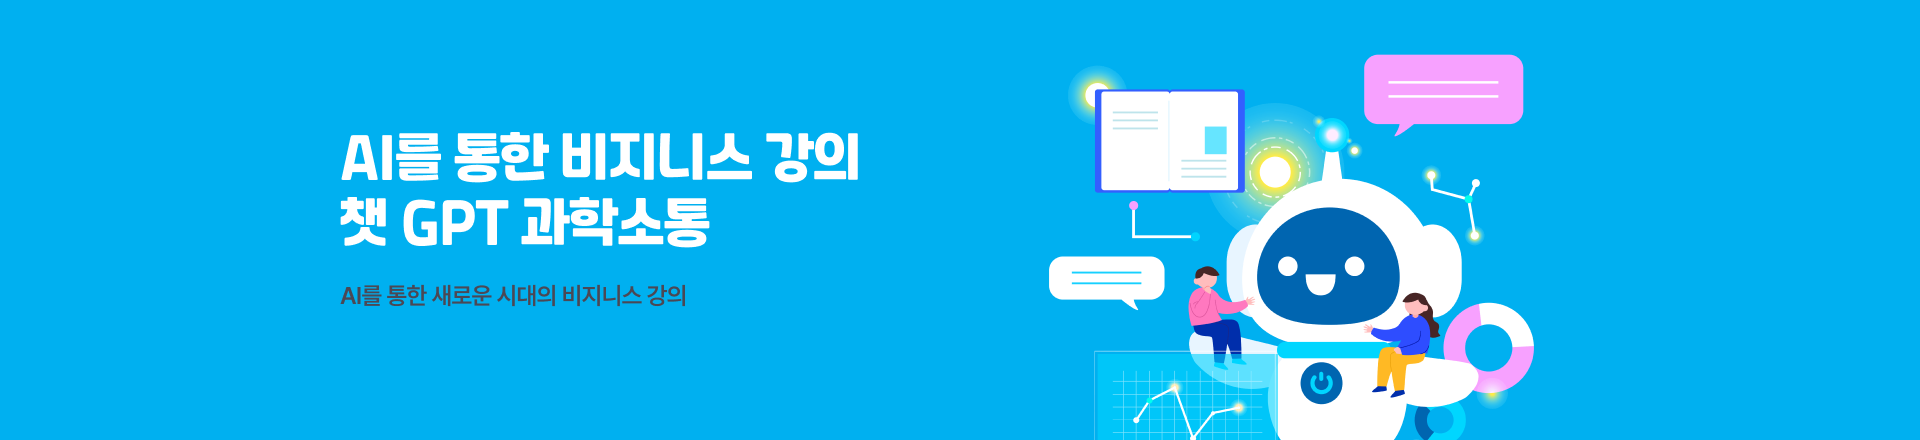
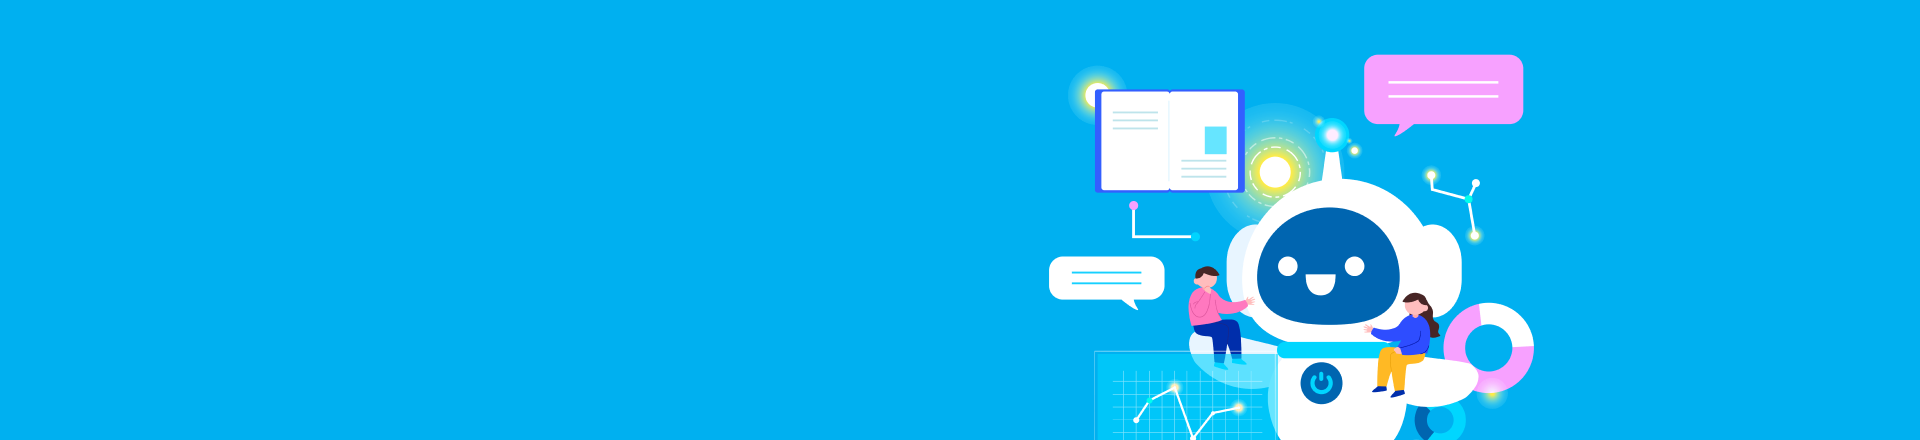
231005

Changed region(s): [[0.1562, 0.2955, 0.4688, 0.4136], [0.1562, 0.4432, 0.375, 0.5614], [0.1562, 0.65, 0.375, 0.7091]]

diff --git a/css/main.css b/css/main.css
@@ -59,6 +59,10 @@
   position: relative;
   width: 100%;
   height: calc(var(--vh, 1vh) * 46);
+  background-repeat: no-repeat;
+  background-size: cover;
+  background-position: center;
+  z-index: 5;
 }
 .top-banner .banner .item .txt-box {
   position: absolute;
@@ -67,7 +71,7 @@
   transform: translate(-50%, -50%);
   width: 100%;
   max-width: var(--area-1240-width);
-  display: none;
+  z-index: 10;
 }
 .top-banner .banner .item .txt-box p {
   font-family: "Recipekorea", sans-serif;
@@ -80,7 +84,7 @@
 .top-banner .banner .item .txt-box span.sub-txt {
   display: block;
   margin-top: 10px;
-  color: var(--blackColor);
+  color: #fff;
 }
 .top-banner .banner .item .txt-box span.sub-txt i {
   display: inline-block;
@@ -99,7 +103,7 @@
   height: 40px;
   line-height: 40px;
   text-align: center;
-  box-shadow: 0 4px 4px rgba(0, 0, 0, 0.25);
+  box-shadow: 0 4px 4px rgba(0, 0, 0, 0.5);
   border-radius: 50%;
 }
 .top-banner .banner .slick-arrow i {
@@ -109,12 +113,12 @@
   color: var(--blackColor);
 }
 .top-banner .banner .slick-prev {
-  right: 19.5vw;
+  right: 26%;
   left: auto;
 }
 .top-banner .banner .slick-next {
   left: auto;
-  right: 17vw;
+  right: calc(26% - 50px);
 }
 .top-banner .banner .slick-dots {
   position: absolute;
@@ -555,6 +559,12 @@
   .calendar_list {
     height: 48vh;
   }
+  .top-banner .banner .slick-prev {
+    right: 20%;
+  }
+  .top-banner .banner .slick-next {
+    right: calc(20% - 50px);
+  }
 }
 /* 태블릿, 모바일 가로 (해상도 768px ~ 830px)*/
 @media screen and (max-width: 885px) {
@@ -640,6 +650,22 @@
   .m-container > article {
     width: calc(100% - 8vw);
     padding: 0 4vw;
+  }
+  .top-banner .banner .item {
+    position: relative;
+    background-position: 70% 100%;
+  }
+
+  .top-banner .banner .item::after {
+    content: "";
+    position: absolute;
+    width: 100%;
+    height: 100%;
+    background: rgba(0, 0, 0, 0.25);
+    z-index: -1;
+  }
+  .top-banner .banner .item .txt-box p {
+    font-size: var(--fz-26);
   }
   .top-banner .banner .item .txt-box .btn-box {
     justify-content: center;

diff --git a/index.html b/index.html
@@ -301,17 +301,6 @@
             class="item"
             style="background-image: url(./images/main/banner_1.png)"
           >
-            <picture>
-              <source
-                srcset="images/main/banner_1_480.png"
-                media="(max-width:480px)"
-              />
-              <source
-                srcset="images/main/banner_1_885.png"
-                media="(max-width:885px)"
-              />
-              <img src="images/main/banner_1.png" alt="" />
-            </picture>
             <div class="txt-box">
               <p>
                 AI를 통한 비지니스 강의<br />
@@ -320,28 +309,16 @@
               <span class="sub-txt">AI를 통한 새로운 시대의 비지니스 강의</span>
             </div>
           </div>
-          <div class="item">
-            <picture>
-              <source
-                srcset="images/main/banner_1_480.png"
-                media="(max-width:480px)"
-              />
-              <source
-                srcset="images/main/banner_1_885.png"
-                media="(max-width:885px)"
-              />
-              <img src="images/main/banner_2.png" alt="" />
-            </picture>
+          <div
+            class="item"
+            style="background-image: url(./images/main/banner_2.png)"
+          >
             <div class="txt-box">
-              <p>9월 토요과학카페 (VR)</p>
-              <span class="sub-txt"
-                ><i class="fa-solid fa-clock"></i>매주 토요일 /
-                13:00~14:30</span
-              >
-              <span class="sub-txt"
-                ><i class="fa-solid fa-location-dot"></i>동구청 1층 사이언스
-                라운지</span
-              >
+              <p>
+                AI를 통한 비지니스 강의<br />
+                챗 GPT 과학소통
+              </p>
+              <span class="sub-txt">AI를 통한 새로운 시대의 비지니스 강의</span>
             </div>
           </div>
         </div>

diff --git a/js/common.js b/js/common.js
@@ -231,7 +231,7 @@ window.addEventListener("load", function () {
   $(window).scroll(function () {
     var scrollTop = $(window).scrollTop();
 
-    if (scrollTop > 50) {
+    if (scrollTop > 30) {
       $("html").addClass("header-fixed");
     } else {
       $("html").removeClass("header-fixed");
